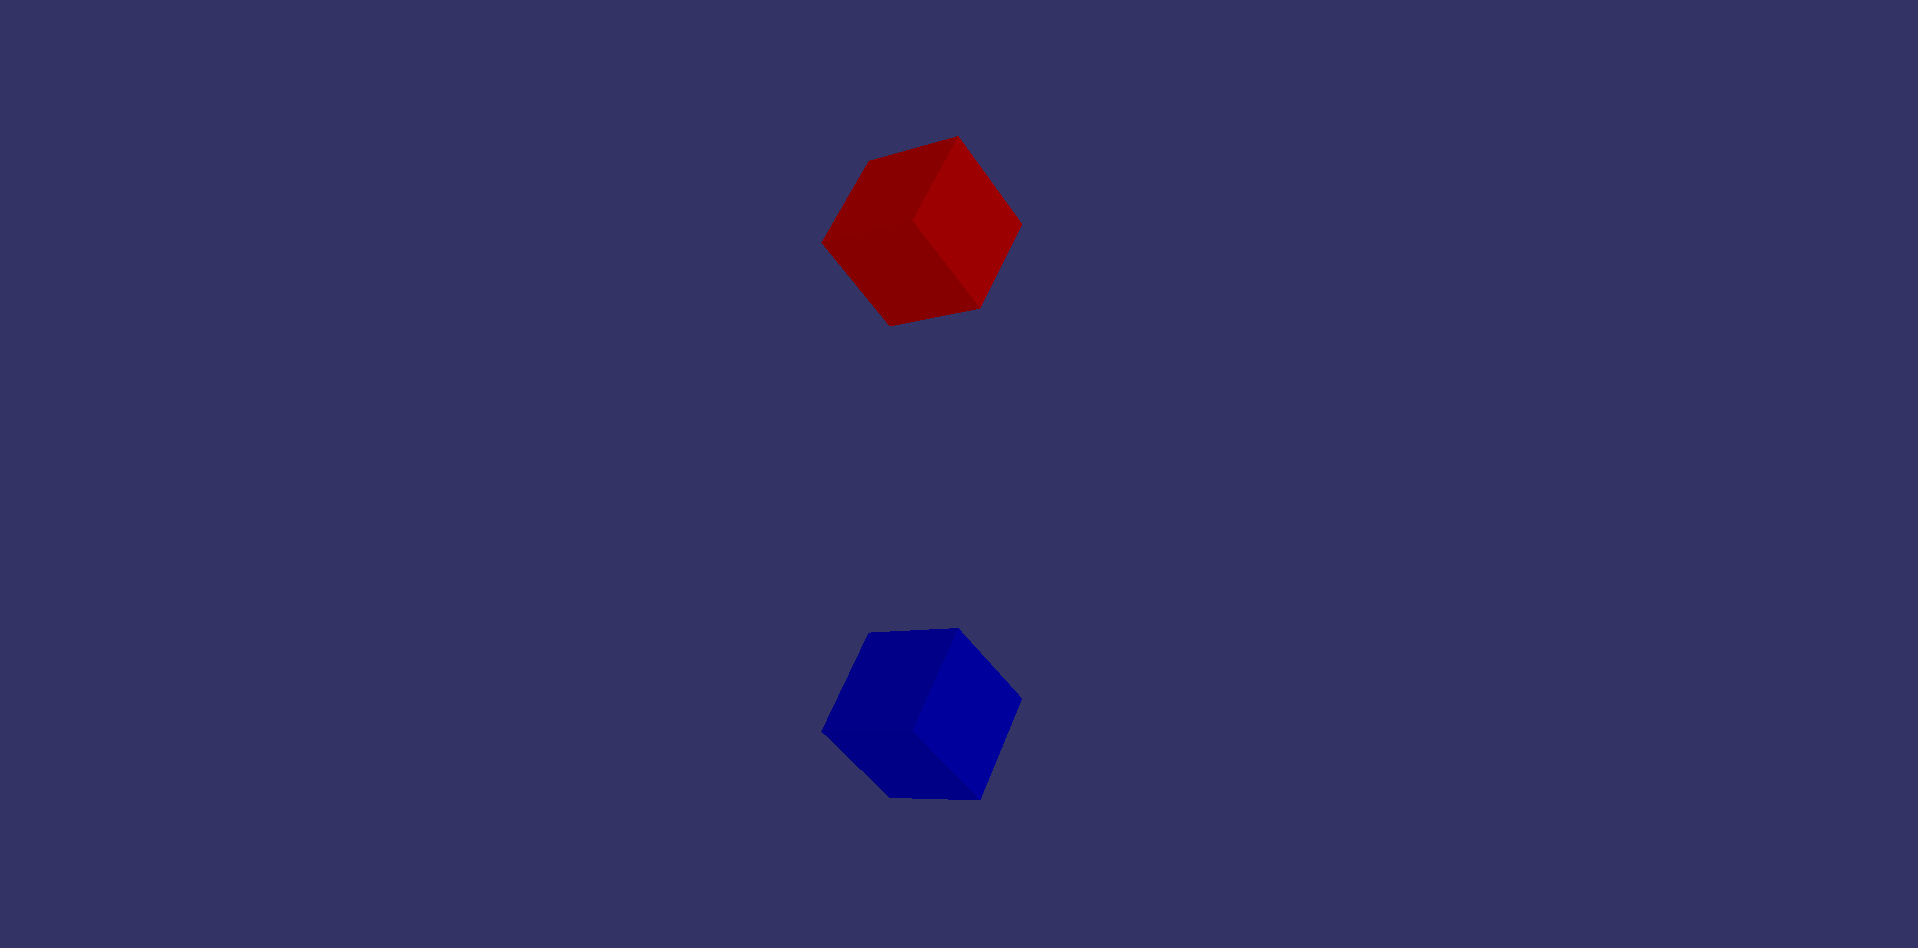
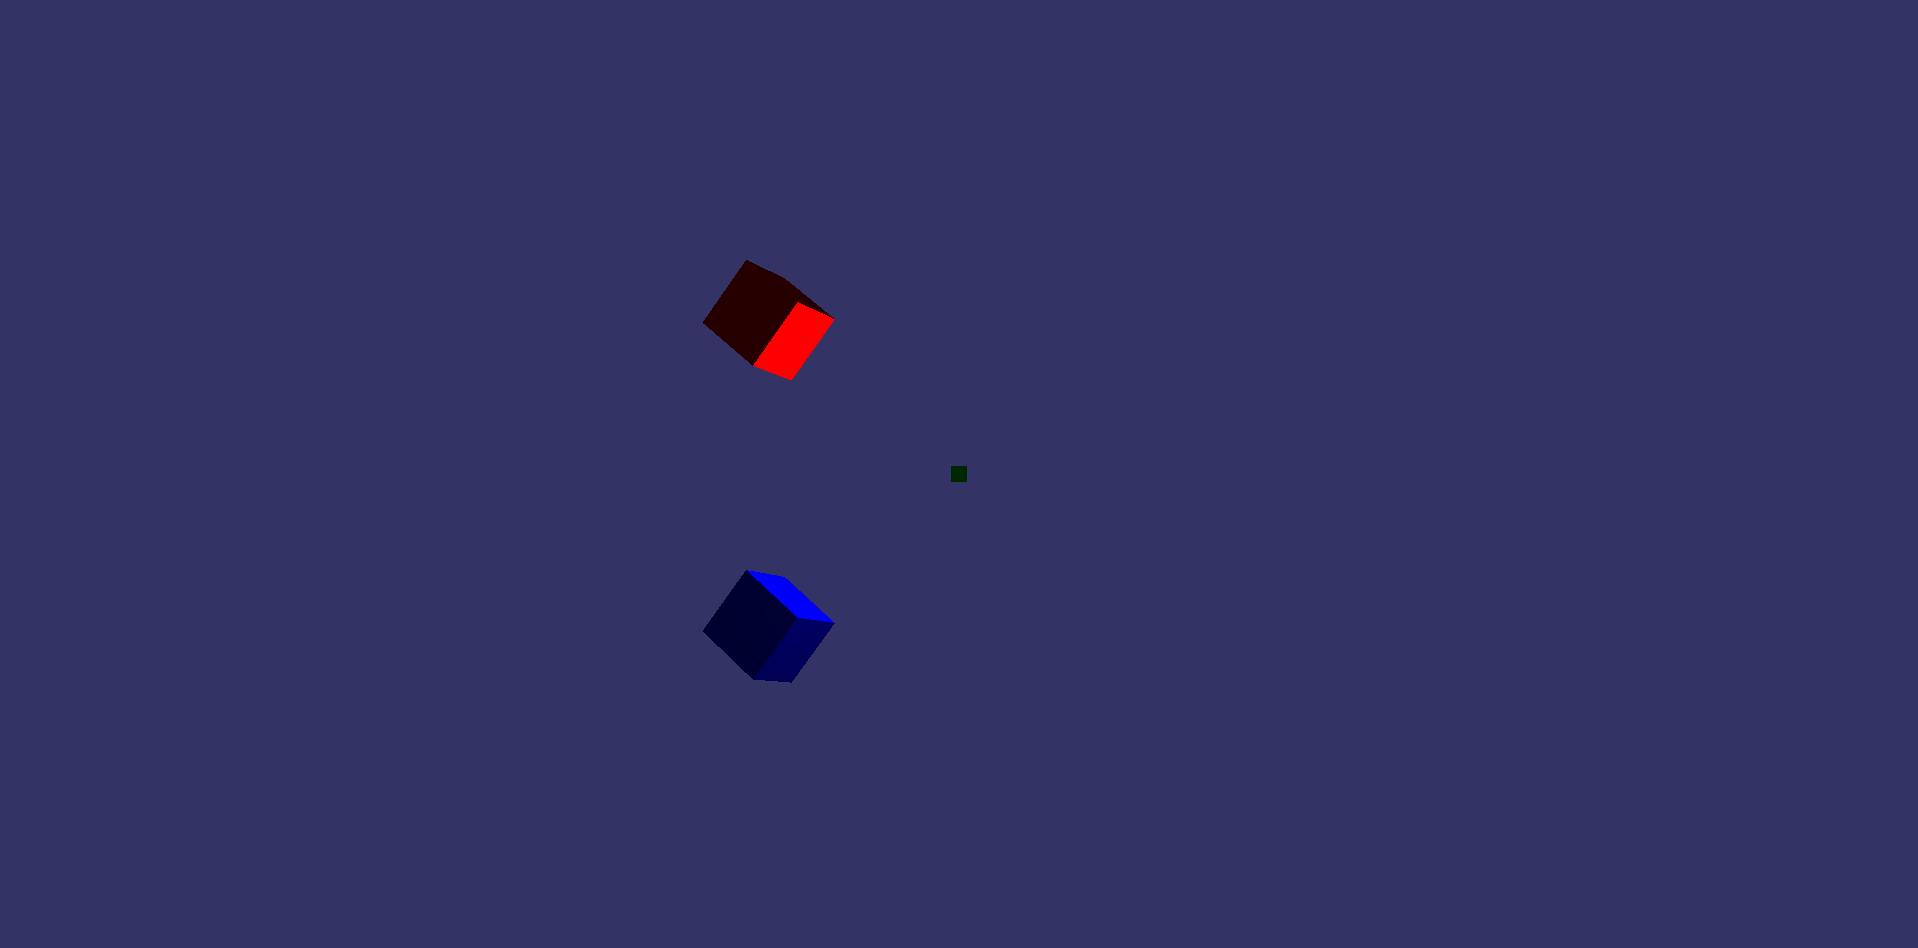
Punto-3 Initial
First light implementation

Changed region(s): [[0.3691, 0.5812, 0.5537, 0.8565], [0.3691, 0.153, 0.5537, 0.3977], [0.4922, 0.4895, 0.5229, 0.52]]

diff --git a/historicos/spinningcubeV2.cpp b/historicos/spinningcubeV2.cpp
@@ -1,3 +1,16 @@
+/******************************************************
+ * Copyright (c) 2024 Diego Antonio López López       *
+ *               diego.a.lopez@udc.es                 *
+ *               Alejandro Rodríguez Vaquero          *
+ *               a.vaquero@udc.es                     *
+ *                                                    *
+ * This code is for the IGM course assignment         *
+ * in OpenSceneGraph                                  *
+ * from the MUEI "Universidade da Coruña"             *
+ * to the date 03-04-2024 and is free to use          *
+ * and distribute.                                    *
+ ******************************************************/
+
 #include <osg/Geode>
 #include <osg/Group>
 #include <osg/ShapeDrawable>
@@ -11,7 +24,10 @@ int main(int argc, char** argv) {
     // Create a root node
     osg::ref_ptr<osg::Group> root = new osg::Group;
 
-
+    
+    //Enable Default Light
+    osg::ref_ptr<osg::StateSet> ss = root->getOrCreateStateSet();
+	ss->setMode(GL_LIGHTING, osg::StateAttribute::ON);
 
     // Create a transform node to displace the cube
     osg::ref_ptr<osg::MatrixTransform> cubeTransform = new osg::MatrixTransform;
@@ -98,66 +114,13 @@ int main(int argc, char** argv) {
     
     // Attach rotation animation to the second transform node
     cubeTransform2->setUpdateCallback(rotationCallback2);
-    
-    // Create an intermediary node to hold the green cube and light source
-    osg::ref_ptr<osg::Group> group = new osg::Group;
-    
-    
-    //Create Light
-    // Create a transform node to displace the light
-    osg::ref_ptr<osg::MatrixTransform> cubeTransform3 = new osg::MatrixTransform;
-    osg::Matrix matrix3;
-    matrix3.makeTranslate(0.0f, 0.0f, 0.0f); // Translation for light 
-    cubeTransform3->setMatrix(matrix3);
-
-    // Create a geode to hold the small cube representing the light
-    osg::ref_ptr<osg::Geode> lightGeode = new osg::Geode;
-
-    // Create a cube shape for the small cube representing the light
-    osg::ref_ptr<osg::Box> lightGeometry = new osg::Box(osg::Vec3(0, 0, 0), 0.2f);
-    osg::ref_ptr<osg::ShapeDrawable> lightDrawable = new osg::ShapeDrawable(lightGeometry);
-
-    // Set the color of the small cube to vibrant green
-    osg::ref_ptr<osg::Vec4Array> lightColor = new osg::Vec4Array;
-    lightColor->push_back(osg::Vec4(0.0f, 1.0f, 0.0f, 1.0f)); // Vibrant green color
-    lightDrawable->setColorArray(lightColor);
-    lightDrawable->setColorBinding(osg::Geometry::BIND_OVERALL);
-
-    // Add the shape to the geode
-    lightGeode->addDrawable(lightDrawable);
-
-    
-    // Add lighting to the scene
-    osg::ref_ptr<osg::LightSource> lightSource = new osg::LightSource;
-    osg::ref_ptr<osg::Light> light = new osg::Light;
-    light->setLightNum(0);
-    light->setPosition(osg::Vec4(0.0f, 0.0f, 0.0f, 1.0f)); // Light at origin
-    light->setDiffuse(osg::Vec4(1.0f, 1.0f, 1.0f, 1.0f)); // White light
-    lightSource->setLight(light);
-    //root->addChild(lightSource);
-    //cubeTransform3->addChild(lightSource);
-    
-    //group->addChild(lightSource);
-    
-    // Add the group to the transform node
-    cubeTransform3->addChild(lightGeode);
-    
-    root->addChild(cubeTransform3);
-
-	root->addChild(lightSource);
-	
-    //Enable Default Light
-    osg::ref_ptr<osg::StateSet> ss = root->getOrCreateStateSet();
-	ss->setMode(GL_LIGHTING, osg::StateAttribute::ON);
-	
-	//Enable secondary light
-	ss->setMode(GL_LIGHT0, osg::StateAttribute::ON);
 
     // Create a viewer
     osgViewer::Viewer viewer;
+    
+    // Set the scene data
     viewer.setSceneData(root);
 
     // Run the viewer
     return viewer.run();
 }
-
